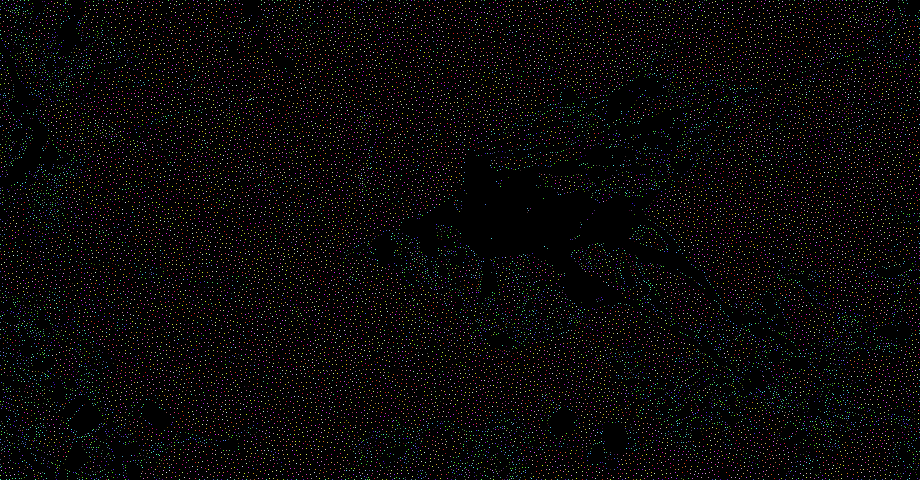
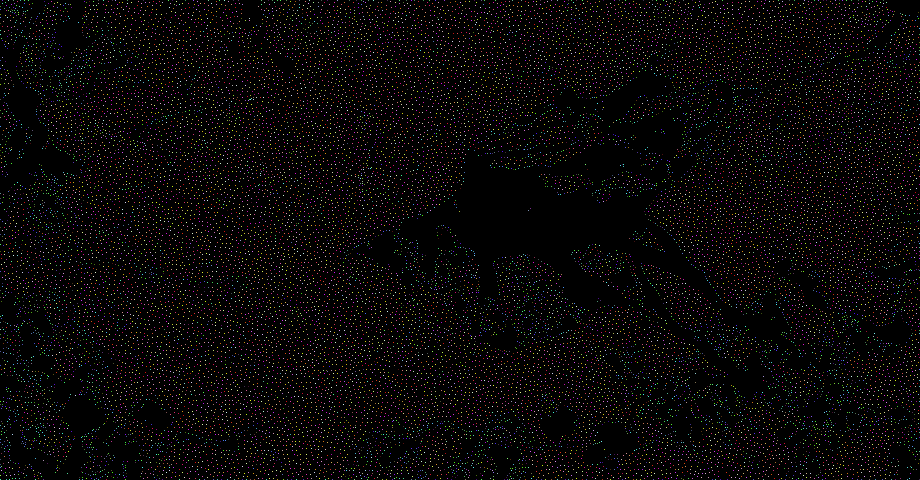
tohachi: no trees on the courses
- Trees are kept off every course line again (drawn lines and own courses
  included): within 7 m of a line always (centre B 10 m, paths 5 m, 下山 6 m),
  and up to 25 m (centre B 40 m, paths 12 m, 下山 14 m) where the ground around
  is open slope, so forest edges along the courses stay; lift lines are kept
  clear too; trees are re-placed when a course line changes
- Tree data: bushes and small trees standing alone on open slopes (crown
  radius under 2 m with under 30% canopy around; under snow in winter) are left
  out of img/trees.png (2,200 fewer)

Claude-Session: https://claude.ai/code/session_01BRvjr95zQB8mXy9rqaJioD

diff --git a/tohachi/index.html b/tohachi/index.html
@@ -1524,7 +1524,7 @@ void main(){ vec3 d=normalize(vD); float h=d.y;
     grp.add(band,L.grp); grp.visible=old?old.grp.visible:false; scene.add(grp);
     const o={c,sp,grp,band,op:old?old.op:1,set:(v)=>{ o.op=v; band.material.opacity=.34*v; L.cas.material.uniforms.uOp.value=.8*v; L.ln.material.uniforms.uOp.value=.95*v; }}; o.set(o.op); courseObj[c.id]=o; }
   COURSES3D.forEach(buildCourse); MY3D.forEach(buildCourse);
-  function removeCourse(id){ const o=courseObj[id]; if(!o) return; scene.remove(o.grp); dispose(o.grp); delete courseObj[id]; needDraw=true; if(!TRE) afLater(); }
+  function removeCourse(id){ const o=courseObj[id]; if(!o) return; scene.remove(o.grp); dispose(o.grp); delete courseObj[id]; needDraw=true; afLater(); }
   // 長さ（斜面にそって）・平均と最大の斜度（約30mの区間ごと）。標高は本当の高さで
   function courseStats(pts){ const sp=smooth(pts), H=sp.map(p=>elev(p[0],p[1])), D=[0]; let len=0;
     for(let i=1;i<sp.length;i++){ const d=Math.hypot(sp[i][0]-sp[i-1][0],sp[i][1]-sp[i-1][1])*M; D.push(D[i-1]+d); len+=Math.hypot(d,H[i]-H[i-1]); }
@@ -1721,10 +1721,18 @@ void main(){ vec3 d=normalize(vD); float h=d.y;
     const out=new THREE.BufferGeometry(); out.setAttribute("position",new THREE.BufferAttribute(Pp,3)); out.setAttribute("normal",new THREE.BufferAttribute(Nn,3)); out.setAttribute("color",new THREE.BufferAttribute(Cc,3)); out.setIndex(new THREE.BufferAttribute(Ii,1)); return out; }
   const fGeo=forestGeometry(), fMat=new THREE.MeshLambertMaterial({vertexColors:true});
   fMat.onBeforeCompile=sh=>{ sh.vertexShader=sh.vertexShader.replace("#include <begin_vertex>","#include <begin_vertex>\n { vec4 ip=modelMatrix*instanceMatrix*vec4(0.,0.,0.,1.); transformed*=smoothstep(2000.,1100.,distance(ip.xyz,cameraPosition)); }"); };
-  function clearBand(){ const c=document.createElement("canvas"); c.width=FW; c.height=FH; const x=c.getContext("2d"); x.strokeStyle="#000"; x.lineCap=x.lineJoin="round";
-    x.lineWidth=26/M; Object.keys(G.courses).forEach(id=>{ const p=G.courses[id]; if(!p||p.length<2) return; x.beginPath(); x.moveTo(p[0][0],p[0][1]); for(const q of p) x.lineTo(q[0],q[1]); x.stroke(); });
-    x.lineWidth=22/M; Object.values(G.lifts).forEach(ab=>{ x.beginPath(); x.moveTo(ab[0][0],ab[0][1]); x.lineTo(ab[1][0],ab[1][1]); x.stroke(); });
+  // コースの上には木を立てない（片がわ m）：core＝線の近くは必ず、outer＝その外も 開けた所に立つ木は のぞく（林のふちは のこす）
+  const clearW=id=>{ const c=course3d(id); if(c&&(c.route||c.lv==="道")) return {core:5,outer:12}; if(id==="sv_gezan") return {core:6,outer:14}; if(id==="centerB") return {core:10,outer:40}; return {core:7,outer:25}; };
+  function clearBand(wide,which){ const c=document.createElement("canvas"); c.width=FW; c.height=FH; const x=c.getContext("2d"); x.strokeStyle="#000"; x.lineCap=x.lineJoin="round";
+    Object.keys(G.courses).forEach(id=>{ const p=G.courses[id]; if(!p||p.length<2) return; x.lineWidth=(wide?26:2*clearW(id)[which||"core"])/M; x.beginPath(); x.moveTo(p[0][0],p[0][1]); for(const q of p) x.lineTo(q[0],q[1]); x.stroke(); });
+    x.lineWidth=(which==="outer"?14:22)/M; Object.values(G.lifts).forEach(ab=>{ x.beginPath(); x.moveTo(ab[0][0],ab[0][1]); x.lineTo(ab[1][0],ab[1][1]); x.stroke(); });
     const d=x.getImageData(0,0,FW,FH).data, m=new Uint8Array(FW*FH); for(let i=0;i<FW*FH;i++) m[i]=d[i*4+3]>60?1:0; return m; }
+  let openCache=null;
+  function openArea(){ if(openCache) return openCache; const m=new Uint8Array(FW*FH); if(!FOR){ openCache=m; return m; }
+    const H1=new Float32Array(FW*FH), R2=2; // 5×5 マス（約20m）の平均（よこ → たて）
+    for(let j=0;j<FH;j++){ let s=0; for(let i=-R2;i<=R2;i++) s+=FOR[j*FW+Math.max(0,Math.min(FW-1,i))]; for(let i=0;i<FW;i++){ H1[j*FW+i]=s; const a=Math.min(FW-1,i+R2+1), b=Math.max(0,i-R2); s+=FOR[j*FW+a]-FOR[j*FW+b]; } }
+    for(let i=0;i<FW;i++){ let s=0; for(let j=-R2;j<=R2;j++) s+=H1[Math.max(0,Math.min(FH-1,j))*FW+i]; for(let j=0;j<FH;j++){ m[j*FW+i]=s/25/255<.5?1:0; const a=Math.min(FH-1,j+R2+1), b=Math.max(0,j-R2); s+=H1[a*FW+i]-H1[b*FW+i]; } }
+    openCache=m; return m; }
   const inErase=(x,y)=>{ for(let i=0;i<eraseC.length;i+=3){ const dx=x-eraseC[i], dy=y-eraseC[i+1], r=eraseC[i+2]; if(dx*dx+dy*dy<r*r) return true; } return false; };
   let maskA=null; function maskSnap(){ const d=mctx.getImageData(0,0,gw,gh).data; maskA=new Uint8Array(gw*gh); for(let i=0;i<gw*gh;i++) maskA[i]=d[i*4+3]; }
   function maskRect(X,Y,r){ if(!maskA){ maskSnap(); return; } const x0=Math.max(0,Math.floor((X-r)/G.step)), y0=Math.max(0,Math.floor((Y-r)/G.step)), x1=Math.min(gw,Math.ceil((X+r)/G.step)+1), y1=Math.min(gh,Math.ceil((Y+r)/G.step)+1); if(x1<=x0||y1<=y0) return;
@@ -1743,10 +1751,11 @@ void main(){ vec3 d=normalize(vD); float h=d.y;
   function afAll(){ if(!AF.n) return; maskSnap(); for(let i=0;i<AF.n;i++){ const g=afGone(i)?1:0; if(g!==AF.gone[i]){ AF.gone[i]=g; afSet(i); } } afFlush(); }
   function genForest(){ AF.chunks.forEach(c=>{ scene.remove(c.im); c.im.dispose(); }); AF.chunks=[]; AF.grid.clear(); AF.n=0; if(!FOR) return;
     const R=rng(424242), X=[], Y=[], S=[], C=[];
-    if(TRE){ // 航空写真の こずえの場所に（本当に木がある所だけ）
-      for(let j=0;j<FH;j++) for(let i=0;i<FW;i++){ const k=(j*FW+i)*4, v=TRE[k]; if(!v) continue;
-        X.push(i+TRE[k+1]/255); Y.push(j+TRE[k+2]/255); S.push(.5+(v-1)/254); C.push(R()); } }
-    else { const SP=15/M, band=clearBand(); // 予備：林の地図から（コース・リフトの上は のぞく）
+    if(TRE){ // 航空写真の こずえの場所に（本当に木がある所だけ。コース・リフトの上は のぞく）
+      const band=clearBand(false,"core"), outer=clearBand(false,"outer"), open=openArea();
+      for(let j=0;j<FH;j++) for(let i=0;i<FW;i++){ const k=(j*FW+i)*4, v=TRE[k]; if(!v) continue; const x=i+TRE[k+1]/255, y=j+TRE[k+2]/255, q=Math.floor(y)*FW+Math.floor(x);
+        if(band[q]||(outer[q]&&open[q])) continue; X.push(x); Y.push(y); S.push(.5+(v-1)/254); C.push(R()); } }
+    else { const SP=15/M, band=clearBand(true); // 予備：林の地図から（コース・リフトの上は のぞく）
       for(let gy=0;gy<FH;gy+=SP) for(let gx=0;gx<FW;gx+=SP){ const x=gx+R()*SP, y=gy+R()*SP, f=forestAt(x,y), r1=R(), r2=R(), r3=R();
         if(f<.5||r1>Math.min(1,(f-.42)*2.5)||x<2||y<2||x>FW-2||y>FH-2||band[Math.floor(y)*FW+Math.floor(x)]) continue; X.push(x); Y.push(y); S.push(.85+r2*.5); C.push(r3); } }
     const n=X.length; AF.n=n; AF.x=Float32Array.from(X); AF.y=Float32Array.from(Y); AF.s=Float32Array.from(S); AF.gone=new Uint8Array(n); AF.ch=new Uint16Array(n); AF.li=new Uint32Array(n);
@@ -2146,7 +2155,7 @@ void main(){ vec3 d=normalize(vD); float h=d.y;
     else if(k==="trees"){ treeArr=v?v.t.slice():[]; eraseC.length=0; if(v&&v.e) eraseC.push(...v.e); treesUpd(); treeCount(); afAll(); }
     else if(k==="lifts"){ Object.keys(LSET).forEach(id=>{ delete LSET[id]; }); if(v) Object.assign(LSET,JSON.parse(JSON.stringify(v.L))); rebuildLifts(); if(ed.on&&ed.tool==="lift") liftUI(); } }
   $("#drawBtn").onclick=()=>{ const f=selected&&findItem(selected); edStart(f&&f.kind==="course"&&(COURSE_IDS.has(selected)||isMy(selected))?selected:"centerB"); };
-  function refreshCourse(id){ const c=course3d(id); if(!c) return; buildCourse(c); needDraw=true; if(!TRE) afLater();
+  function refreshCourse(id){ const c=course3d(id); if(!c) return; buildCourse(c); needDraw=true; afLater();
     if(ed.on){ if(courseObj[id]){ courseObj[id].grp.visible=ed.id!==id; courseObj[id].set(.35); } if(ed.id===id&&!ed.dirty) edOpen(id,true); edOptions(); } }
   // 大きさ
   function resize(){ const w=box.clientWidth, h=box.clientHeight; if(!w||!h) return; LABELS.concat([{d:selLab}]).forEach(L=>{ L.d._w=0; }); vw=w; vh=h; renderer.setSize(w,h,false); camera.aspect=w/h; camera.updateProjectionMatrix(); LK.value=2*Math.tan(camera.fov*Math.PI/360)/h; RES.value.set(w,h); [skier,rider,...ed.markers].forEach(sp=>pxSize(sp,sp.userData.px||16)); needDraw=true; }
